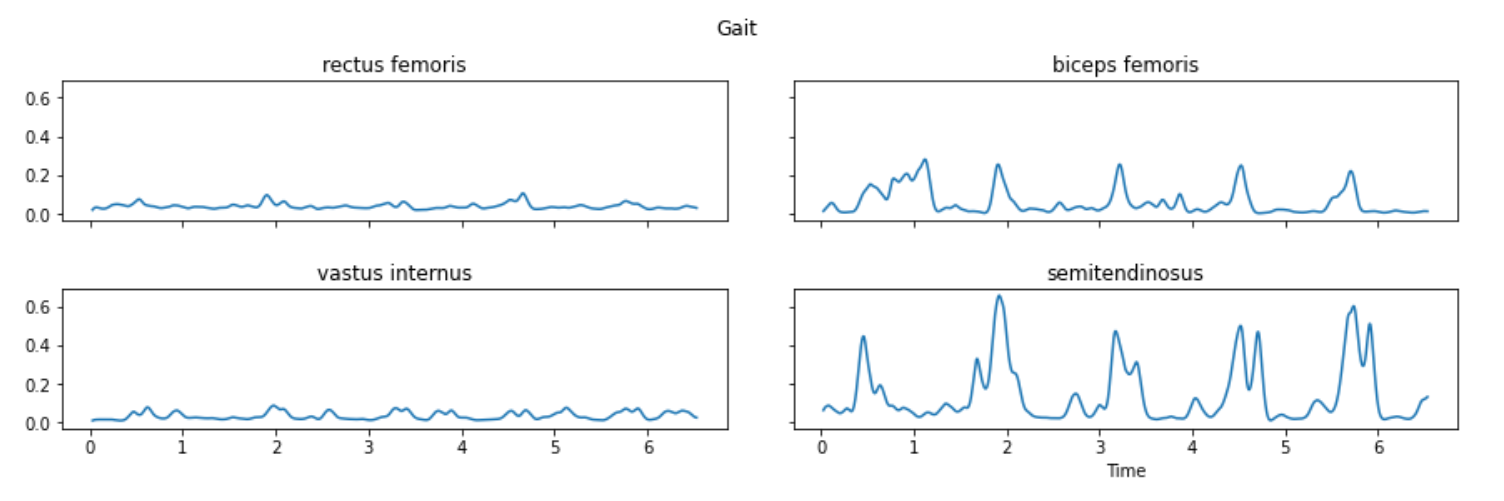
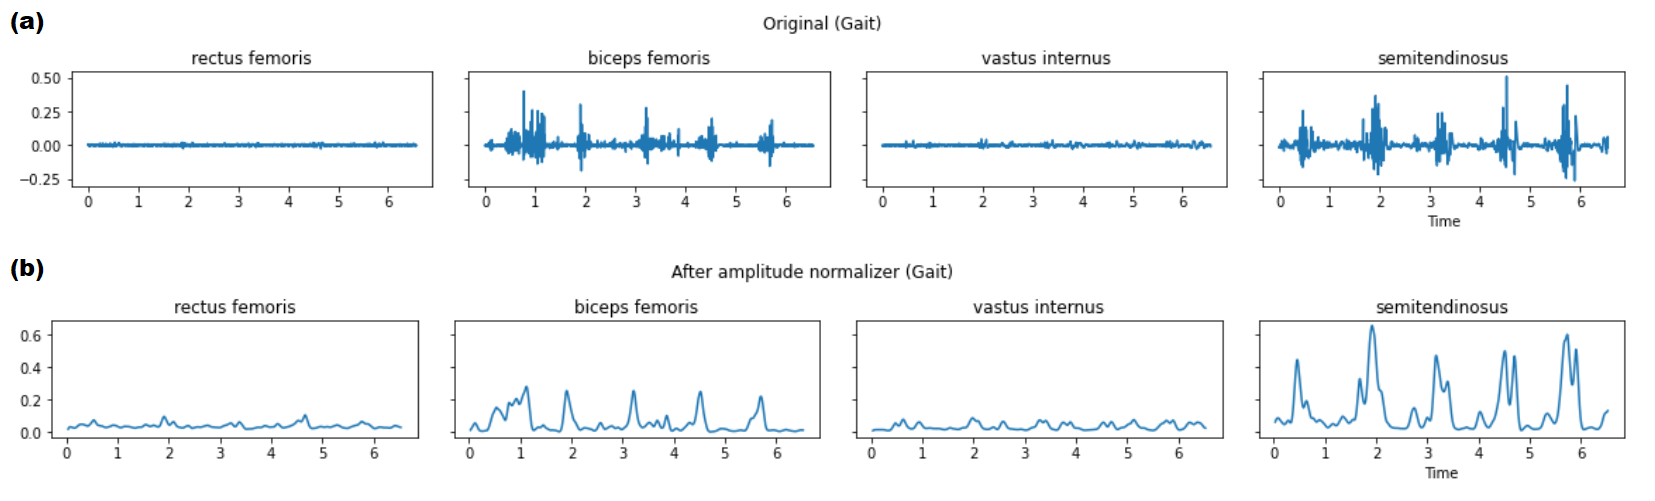
Update paper

diff --git a/paper/paper.md b/paper/paper.md
@@ -8,7 +8,7 @@ authors:
   - name: Tsung-Lin Wu
     orcid: 0000-0002-1823-6818
     affiliation: 1
-  - name: Amr Ali Mokhtar Alhossary
+  - name: Amr A. Alhossary
     orcid: 0000-0002-4470-5817
     affiliation: 2
   - name: Todd C. Pataky
@@ -27,7 +27,7 @@ affiliations:
     index: 2
   - name: Kyoto University, Department of Human Health Sciences
     index: 3
-date: 14 January 2022
+date: 17 January 2022
 bibliography: paper.bib
 ---
 
@@ -41,7 +41,7 @@ After the aforementioned seven processing steps, sometimes it is necessary to pe
 
 Within this package, class [DataProcessingManager](https://aalhossary.github.io/pyemgpipeline/api/pyemgpipeline.wrappers.html#dataprocessingmanager) is designed for high-level, guided processing, and users are encouraged to use it to adhere to accepted EMG processing conventions.
 
-\autoref{fig:example} shows an example result of using `pyemgpipeline`. Please also refer to the [full documentation](https://aalhossary.github.io/pyemgpipeline/) and the [source code](https://github.com/aalhossary/pyemgpipeline) for detailed information.
+An example of using `pyemgpipeline` is shown in \autoref{fig:example}, where the original signals and the processed ones are displayed in subfigure (a) and (b) respectively.  Please refer to the [full documentation](https://aalhossary.github.io/pyemgpipeline/) and the [source code](https://github.com/aalhossary/pyemgpipeline) for detailed information.
 
 # Statement of need
 
@@ -53,6 +53,10 @@ Within this package, class [DataProcessingManager](https://aalhossary.github.io/
 
 # Figures
 
-![Example result of using `pyemgpipeline`\label{fig:example}](example_fig_in_paper.png)
+![An example of applying `pyemgpipeline` to EMG signals of a gait trial, which consists of four channels and lasts 6.6 seconds.
+(x-axis: seconds, y-axis: amplitude.)
+(a) The original signals.
+(b) The processed signals through steps until amplitude normalization. Note that the maximum amplitudes used in amplitude normalization are obtained from all trials (not shown here) including the gait trial. 
+\label{fig:example}](example_fig_in_paper.png)
 
 # References
